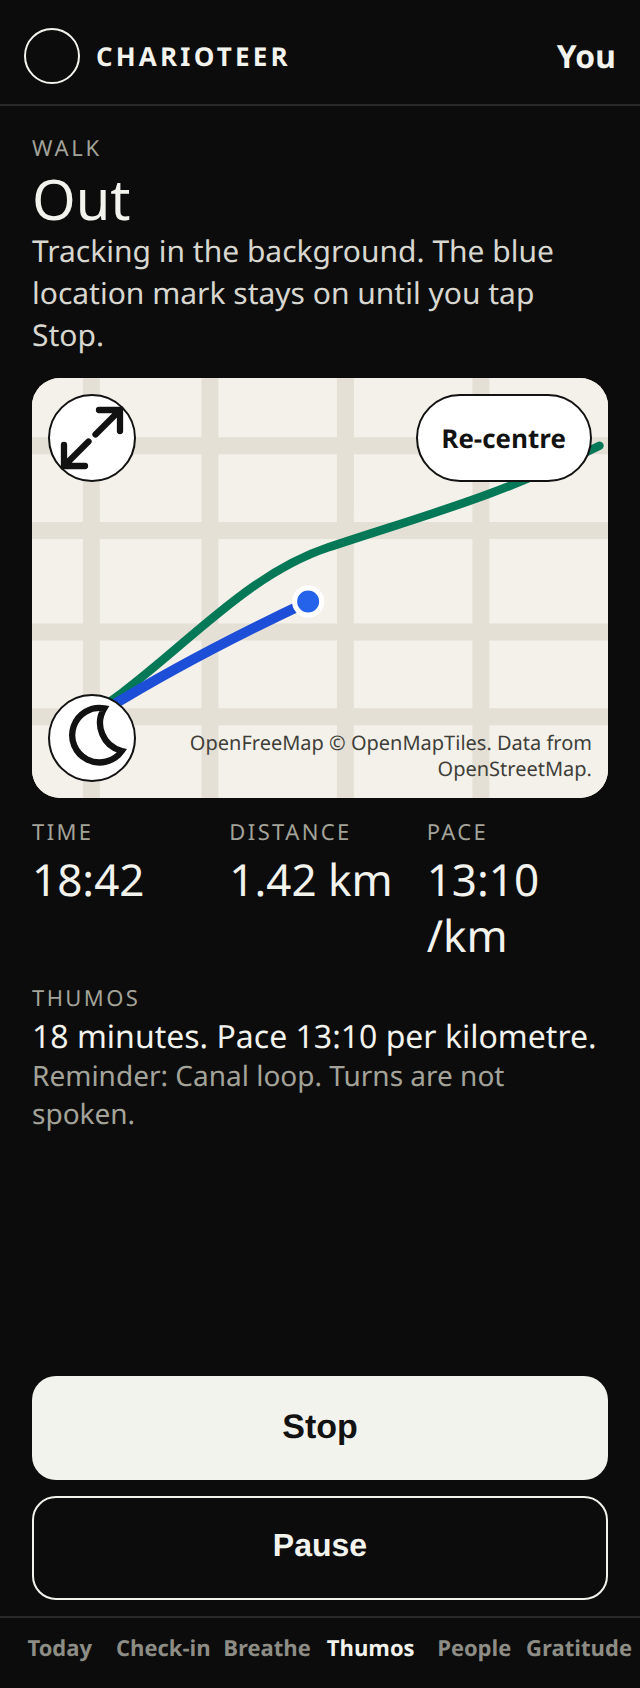
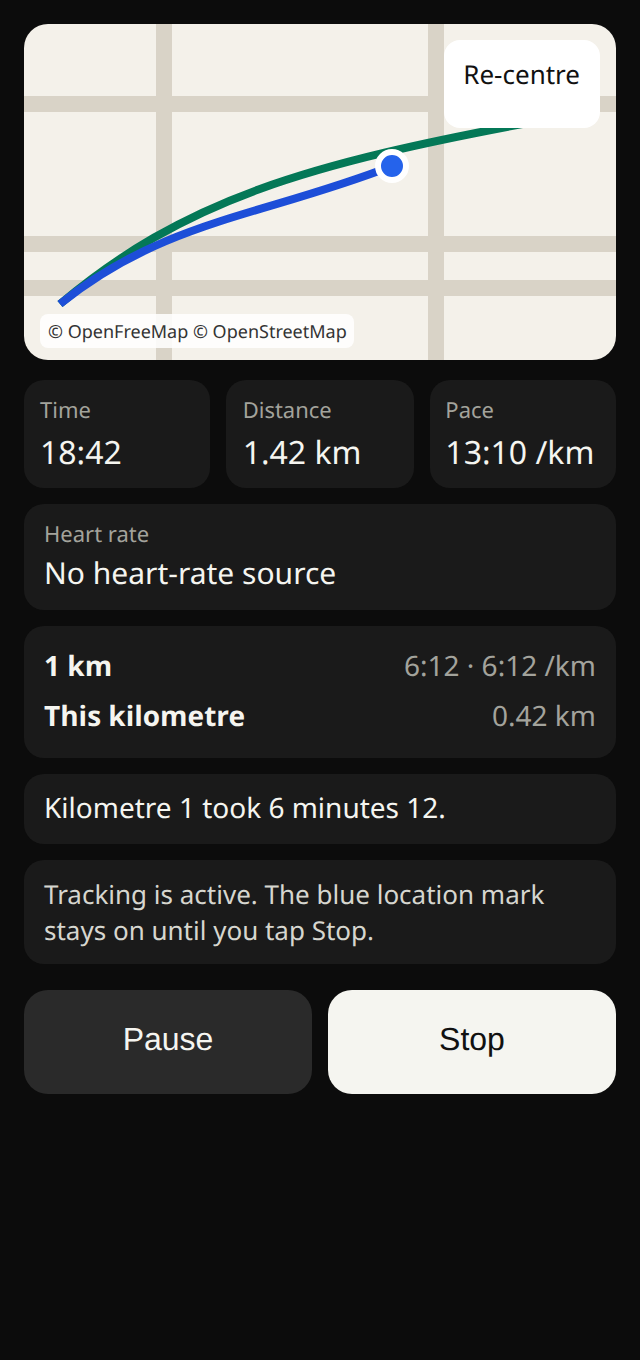
Record live heart rate and split times as a design only.
The sheet recommends reading Apple Health during an outing, hiding the rate when there is no recent sample, and keeping split times without a path. No permission string is changed.

diff --git a/docs/privacy.html b/docs/privacy.html
@@ -57,6 +57,7 @@
   <h2>Activity tracking</h2>
   <p>This section is a proposal. It is not what the app does today. The sentence in the Location section is the one on the device. It has not been approved into the app.</p>
   <p>If it is built, Charioteer would use your location while you are on a walk, run, or cycle you start, to track distance and give you spoken updates, including when the screen is locked or you are using another app. You would tap Start before measuring begins. An explanation in the app would come before the system permission. The permission would stay while using the app. Always location would not be added. iOS would show a blue location mark while measuring is on. Measuring would stop when you tap Stop, when you discard the outing, when the app is closed, and after a time limit. The route of that outing would stay in memory on your phone for the outing only. It would be cleared when you stop or discard it. If the app is closed mid-outing, the route is lost. It would not be sent anywhere, including to the account, the route service, the coach, or a model. It would not be written to a log. It would not be combined with sobriety logs or included in a data export. A finished activity you choose to keep would still store the distance, time, and pace on this phone, not the path. Spoken lines would use the phone's voice and would not record. Route finding would stay separate. A route you ask for would still send only the start and the destination.</p>
+  <p>A further proposal, also not built, would show split times from that distance, in kilometres or miles, and may keep those times in the on-phone summary with the average pace. The summary would still have no path. A heart rate would be shown only when Apple Health already has a recent one. The iPhone would not estimate one. The number would stay on the phone and would not be sent.</p>
   <p>Walk this off (the craving walk) is parked and is not shown. It is not a live feature.</p>
   <p>Route finding stays off until you turn it on. Not now leaves the rest of Outside is Good working. The choice stays on this phone. When it is on, the start point and the destination are sent to OpenRouteService, run by HeiGIT and built on OpenStreetMap data, to make the route. A route sends the coordinates and the travel type only. It does not send your name or account number. HeiGIT sees our server's address, not your phone's. A place search sends the words you type. HeiGIT's transparency statement (https://account.heigit.org/info/transparency-statement) says the full request and response, the IP address, and the API key are kept for 7 days to look for abuse, then deleted. For a route, coordinates rounded to about 1 km, and the request metadata, are kept with no end date. This is done on servers in the EU. The statement is voluntary and not a binding promise. A place search is geocoding. The same statement says the typed place is not kept past those 7 days. Nothing is shared with other people. The map credits OpenStreetMap contributors. Turning this on is not a request to accept OpenStreetMap terms.</p>
   <p>The map opens light, on the OpenFreeMap Liberty style. You can switch that map to dark. The choice stays on this phone. Both styles come from tiles.openfreemap.org. A full screen map is the same map, larger. It does not add a permission or another host.</p>

diff --git a/docs/start-activity-decisions.md b/docs/start-activity-decisions.md
@@ -6,6 +6,8 @@ On 26 October 2026 at 07:42 GMT Ben changed the scope. Tracking must keep runnin
 
 Later the same day the Security and Compliance Bot sent an advisory on that plan. The background section below records it as recommendations. Ben decides. Nothing in the advisory is built. Where the advisory is tighter than the 07:42 draft, the advisory is the recommendation.
 
+On 26 October 2026 at 08:09 GMT Ben asked for a live heart rate and for split times. That is also design only. It is the section **Heart rate and split times**. No permission string was changed for it.
+
 The decision is **Background tracking and spoken updates over music**. The pictures in that section are layout proofs. They are not screens in the app.
 
 Outside is Good has three buttons: **Start a walk**, **Start a run**, and **Start a cycle**. They sit on the existing card, under Find a route and above Open the map. The button opens the setup screen with that activity already chosen. The person can still switch. Walk this off stays hidden.
@@ -93,7 +95,7 @@ A buzz uses the haptic the app already uses when something is saved. No permissi
 
 **Recommendation: a short list of lines stored in the app. The phone fills in the time and the pace. Nothing leaves the phone.**
 
-A line is calm and short. It does not give medical advice, a heart-rate claim, or a calorie. It does not say "you should". If the pace is not ready yet, the line talks about the time only. The same list can praise a walk, a run, and a cycle without pretending to be a coach who knows the person.
+A line is calm and short. It does not give medical advice, a heart-rate claim, or a calorie. It does not say "you should". If the pace is not ready yet, the line talks about the time only. The same list can praise a walk, a run, and a cycle without pretending to be a coach who knows the person. Version 1 keeps that. The later heart-rate section may state a number that Apple Health already has. It still does not interpret the number.
 
 **A live model (Thumos through xAI) is later, and only if you explicitly opt in.** Today `XAI_PERSONAL_DATA_ENABLED=false` is the switch that keeps personal data from being sent for coaching. An update that sent pace, time, or place would be personal data. Place should not be sent even if you later opt in. Pace and time would be the most we would send, and only after a separate yes on that screen, and only while that switch allows it. The first version does not call Thumos, the model, or any server for these lines.
 
@@ -119,7 +121,7 @@ A path is a trail of where they were. The first version does not store one, even
 
 **Not a cloud table in the first version.** A table of outings would be location-related even without the path, because a distance and a time still say that someone went out. It would need a privacy-note update, a line in the data download (`export_my_data`), and the same delete as the rest of the account. Saved routes already sit on the account, and that migration does not add them to the download. A new activity table must not copy that gap. If you later want the summary to follow the account, store the summary only, still with no path, and add it to the download and to delete before it is switched on.
 
-**Apple Health.** The app can already read workouts. The sentence that covers writing says it writes food and water, and that it does not write workouts. A Save to Apple Health button would make that sentence false. The button is on the drawing so you can see it. It is not in the first build. Building it needs the new sentence at the end of this note, and your OK. What it would write, after that: the type (walk, run, or cycle), the start, the end, and the distance. It would not write the path, a heart rate, steps, or a calorie guess. We do not have a heart rate from this screen, and a guessed calorie reads like advice.
+**Apple Health.** The app can already read workouts. The sentence that covers writing says it writes food and water, and that it does not write workouts. A Save to Apple Health button would make that sentence false. The button is on the drawing so you can see it. It is not in the first build. Building it needs the new sentence at the end of this note, and your OK. What it would write, after that: the type (walk, run, or cycle), the start, the end, and the distance. It would not write the path, a heart rate, steps, or a calorie guess. Version 1 does not show a heart rate. A later read, if you approve it, only displays a rate Apple Health already has. It still does not write one. A guessed calorie reads like advice.
 
 **Gratitude.** The tick uses the words already in the app: "Also save to my Gratitude diary". It is off. If they tick it, the diary gets the note they typed, the same private diary as any other line. That note does live on the account, like the rest of the diary. It does not include the path. An empty note does not create a diary line.
 
@@ -195,9 +197,9 @@ While the app is open, the live screen still shows the map. It is the same OpenF
 
 When the app is not in front, they do not see this screen. iOS shows a blue location mark so they can see measuring is on. When they come back, the same screen is here, the time has moved, and it says tracking is in the background, with Stop.
 
-![Proposed live screen, 390 wide. Layout proof. Stop ends the outing.](start-activity/live-proposed-390.png)
+![Proposed live screen, 390 wide. Layout proof. The map stays visible. Heart rate has no source. One split is done. Stop ends the outing.](start-activity/live-proposed-390.png)
 
-![Proposed live screen, 320 wide.](start-activity/live-proposed-320.png)
+![Proposed live screen, 320 wide. The same layout.](start-activity/live-proposed-320.png)
 
 ![Tracking in the background, 390 wide. The clock has kept going. Stop is on the screen.](start-activity/tracking-background-390.png)
 
@@ -346,6 +348,64 @@ This is the list to run when the feature is built. It is not built now.
 - Discard and Stop both clear the in-memory path.
 - The native task does not start significant-change monitoring or region monitoring.
 
+## Heart rate and split times
+
+Ben, 26 October 2026, 08:09 GMT. This section is a proposal. It is not built. No purpose string and no Info.plist key has been changed. You decide. Build 73 stays first.
+
+### Splits
+
+The distance is the same filtered GPS distance the outing already uses. A fix that is too coarse, or too fast for the activity, adds nothing, so it does not finish a split either.
+
+The unit is the one already stored on this phone for workout routes, under `charioteer.distanceUnit`. The workout screen calls the choices Kilometres and Miles. Kilometres is the default. A split is one kilometre, or one mile if they have chosen miles. No new permission.
+
+On the live screen, under the time, distance, and pace, the finished splits are listed, and the kilometre or mile still in progress is shown under them. A finished row is the number, the time, and the pace, for example "1 km · 6:12 · 6:12 /km". The one in progress shows how far that kilometre has got. It is not a finished split until the full kilometre or mile is done. Under about 50 metres the pace stays a dash, as it does today.
+
+The path stays in memory only, as the security advisory already says. It is cleared on Stop and on discard, and it is lost if the app is killed. A split row has no coordinates. It is the index, the time, and the pace.
+
+If you approve it, the on-phone summary may keep the average pace and those split times, together with the activity, the date, the distance, and the time. Still no path. That write happens only when they finish and choose to keep the summary. A kill before that loses the splits with the path. The splits are not sent to Supabase, to the route service, or to xAI. They are not added to the data export. They are not joined to sobriety logs.
+
+Thumos can mention the latest finished split from the list on the phone. "Kilometre 1 took 6 minutes 12." If they use miles, the line says mile. Nothing is sent.
+
+![Proposed summary, 390 wide. Layout proof. Split times, no path.](start-activity/finish-splits-390.png)
+
+![Proposed summary, 320 wide.](start-activity/finish-splits-320.png)
+
+The earlier finish pictures in this note are the summary in the app today. They do not have splits.
+
+### Where a heart rate can come from
+
+The iPhone cannot measure heart rate for this outing. Do not estimate one from pace, and do not invent one. Do not use the camera. If there is no recent reading, the tile says "No heart-rate source" and Thumos does not mention a heart rate. The proofs above are that empty state, with the map still visible.
+
+Three sources. Only the first is recommended.
+
+**1. Apple Watch, read from Apple Health. Recommended for this version.**
+
+While a workout is running, the Watch writes heart-rate samples into Apple Health. Charioteer already asks to read heart rate. The read list already includes `HKQuantityTypeIdentifierHeartRate`. The share sentence already says the app reads heart rate. There is no new Health type and no new permission key. People who have already allowed heart rate are not asked again, because the read list does not change.
+
+A companion Watch app is not required. The Watch's own Workout app is enough, if they start a workout on the Watch. Charioteer does not start that workout. It has no Watch app. Without a workout running on the Watch, the Watch records heart rate only now and then. That is not a rate for this screen. The tile stays on "No heart-rate source".
+
+When this is built, and only while the outing is running, the phone would subscribe to heart-rate changes and turn on Health background delivery at the immediate frequency. The Health library already in the app can do both (`subscribeToChanges` and `enableBackgroundDelivery`). When a change arrives, an anchored query (`queryQuantitySamplesWithAnchor`) reads samples since the last anchor. The same query the workout screen uses today is a one-off read of a finished route. The outing does not use that path, and it does not read a workout route. The subscription and the background delivery stop on Stop, on discard, on termination, and at the time limit. They are not left on for the rest of the day. Health background delivery does not need a `UIBackgroundModes` entry.
+
+What "live" honestly means. Apple does not promise every beat. Immediate is a hint. A sample is often a few seconds to about a minute behind the Watch. With the phone locked, or in Low Power Mode, it can be slower, batched, or deferred. The tile shows the latest sample and how old it is, for example "142 bpm" and "20s ago". If the newest sample is older than about a minute, the tile returns to "No heart-rate source" and the lines stop mentioning a rate. Do not draw a trace.
+
+The share sentence already allows the read. It does not say the rate is shown during a walk they start. The recommended sentence in the wording list adds that, on the same key. It is not written into the app until you approve it.
+
+**2. A Bluetooth heart-rate strap, or a watch that broadcasts the standard heart-rate service. Not this version.**
+
+This needs a new purpose string, `NSBluetoothAlwaysUsageDescription`. Keeping the reading while the phone is locked would also need `UIBackgroundModes` entry `bluetooth-central`. Neither key is in the app. Both are new wording and a new review. Guideline 2.5.4 applies to that background mode, and 5.1.1 applies to the new sentence. They would also have to choose a strap and connect it. Do not add this in this version. The sentence is in the wording list only so it is not mistaken for something already approved.
+
+**3. No sensor.** This is what the screen does when option 1 has nothing newer than about a minute. The tile says "No heart-rate source". The lines do not mention a heart rate.
+
+Recommendation. Option 1, and option 3 whenever there is no recent sample. No Watch app. No Bluetooth. No estimate. The number can be behind the Watch. Say that on the screen.
+
+### Safeguards
+
+No medical claim. No heart-rate zones. No alarm, and no line that tells them to slow down or stop because of a number. At most one calm line if the rate is very high. The number to confirm is 180 bpm or above, once in that outing: "Heart rate is 180. This is not medical advice." Then no further heart-rate warning. The Good to know lines stay, including the GP, NHS 111, and 999 line. "Not medical advice" stays.
+
+An ordinary heart-rate line, if they left spoken updates on, rides the interval they already chose. It does not speak on every sample. "Heart rate 142." It states the number. It does not say what the number means.
+
+The number stays on the phone. It is not sent to xAI or to Supabase in this version. It is not written to a log. The summary does not keep a trace or a list of readings. Recommendation: the summary keeps no heart rate at all. A single average would be a later decision. If Thumos lines later use xAI, the input is aggregate numbers only, such as average pace and, only if you allow it, an average heart rate, after an explicit opt-in. Never a trace, and never coordinates. `XAI_PERSONAL_DATA_ENABLED` stays false. That later use is not this version.
+
 ## Wording that needs your OK
 
 None of this is in the app. Nothing below is written into Info.plist until you approve it.
@@ -382,6 +442,31 @@ Do not add `NSLocationAlwaysAndWhenInUseUsageDescription`. Do not add `NSLocatio
 
 The map screens keep their own page line. That line is about the map, not about an outing.
 
+**Heart rate and splits, for the same later build.** Not in the app. Splits need no new permission. Heart rate uses the Health read the app already has. The sentence below is a change to that existing share sentence, not a new key.
+
+Today, and still the sentence in the app: "Charioteer reads steps, sleep, heart rate, resting heart rate, heart rate variability, cardio fitness, walking heart rate, heart rate recovery, workouts (type, duration, distance, energy, and average heart rate), and walking, cycling and swimming distance, plus weight, height, body fat, lean body mass, active energy, and exercise minutes. Readings stay on your iPhone. A workout route is read only when you open that route, and the path stays on this iPhone. A short summary is sent to write your plan only if you turn the coach on. It is not used for ads. Other people cannot see this."
+
+Proposed `NSHealthShareUsageDescription`: "Charioteer reads steps, sleep, heart rate, resting heart rate, heart rate variability, cardio fitness, walking heart rate, heart rate recovery, workouts (type, duration, distance, energy, and average heart rate), and walking, cycling and swimming distance, plus weight, height, body fat, lean body mass, active energy, and exercise minutes. Readings stay on your iPhone. During a walk, run, or cycle you start, the latest heart rate from Apple Health can be shown on that screen, including while the phone is locked. The iPhone does not measure it. That heart rate stays on this iPhone and is not sent. A workout route is read only when you open that route, and the path stays on this iPhone. A short summary is sent to write your plan only if you turn the coach on. It is not used for ads. Other people cannot see this."
+
+Lines on the screen. Not purpose strings.
+
+- The empty tile: "No heart-rate source"
+- Under that tile when it is empty: "Start a workout on your Apple Watch to show heart rate. The iPhone does not measure it."
+- A recent sample: "142 bpm" and "20s ago"
+- A finished split, kilometres: "1 km · 6:12 · 6:12 /km"
+- The split still going: "This kilometre · 0.42 km"
+- The same split in miles, if that is their unit: "1 mi · 6:12 · 6:12 /mi" and "This mile · 0.42 mi"
+- A spoken or on-screen split line: "Kilometre 1 took 6 minutes 12." Miles: "Mile 1 took 6 minutes 12."
+- A spoken or on-screen heart-rate line, only when a sample is recent, and only on the interval they chose: "Heart rate 142."
+- Once, if the rate is 180 or above. Confirm 180 before this is used: "Heart rate is 180. This is not medical advice."
+- In Good to know: "Heart rate, if it shows, comes from Apple Health and can be a little behind. It is not medical advice."
+
+**Bluetooth heart rate. Not recommended, and not added unless you later choose that source.** New key. New review.
+
+`NSBluetoothAlwaysUsageDescription`: "Charioteer reads heart rate from a Bluetooth strap or watch while a walk, run, or cycle is running, including when the phone is locked. The reading stays on this phone. It is not sent."
+
+`UIBackgroundModes` entry `bluetooth-central` would go with that sentence. Neither is in the app. Do not add them for this version.
+
 **Apple Health write, only if you want that button built.** Not the first version.
 
 Today: "Charioteer writes the food and water you log to Apple Health: dietary energy, protein, carbohydrate, sugar, fibre, fat, sodium and water. It does not write steps, sleep, heart rate, workouts, or weight."
@@ -394,6 +479,7 @@ Proposed: "Charioteer writes the food and water you log to Apple Health: dietary
 - `NSLocationAlwaysUsageDescription`.
 - A new motion sentence. The current one stays, because the app does not read motion.
 - A new microphone sentence. Speaking is not recording.
+- `NSBluetoothAlwaysUsageDescription`, and `UIBackgroundModes` `bluetooth-central`, unless you later choose a Bluetooth strap. Not this version.
 
 `UIBackgroundModes` `location` and `audio` are the keys in section (c). They are not in the binary. They wait for the wording above.
 
@@ -407,6 +493,8 @@ Writing a workout while the Health sentence says we do not write workouts would 
 
 A step counter while the motion sentence says we do not use motion would be the same kind of rejection. The step counter is not in the plan.
 
+A Bluetooth heart-rate strap would be a new permission and a new background mode. It is not in this version. Showing a heart rate the iPhone invented would make the Health sentence false. The tile stays on "No heart-rate source" when Apple Health has nothing recent.
+
 ## What this note does not do
 
-Version 1, including the live map, is in the app on this branch. It still pauses when the phone locks. The background section, including the Security and Compliance Bot recommendations, is a decision only. No purpose string was changed. No Info.plist key was added. No new host. Build number 72. Nothing shipped. The outdoor-route function is still not deployed. Build 73 stays on its own branch.
+Version 1, including the live map, is in the app on this branch. It still pauses when the phone locks. The background section, the Security and Compliance Bot recommendations, and the heart-rate and split section are decisions only. No purpose string was changed. No Info.plist key was added. No new host. Build number 72. Nothing shipped. The outdoor-route function is still not deployed. Build 73 stays on its own branch.

diff --git a/docs/dpia-location.md b/docs/dpia-location.md
@@ -18,10 +18,10 @@ Not built. Not in the binary. Ben has not approved the build. This is the activi
 
 - Purpose. Measure distance and pace, and give spoken updates, during a walk, run, or cycle the person started, including while the screen is locked or another app is in front.
 - Lawful basis to confirm. The person starts it. iOS while-using permission is granted. An in-app explanation is shown before the system prompt. The working basis is that request. This note does not confirm the UK GDPR article.
-- Data. Location fixes and the path, in memory on the phone, only while the outing is running, plus the distance, time, and pace derived from them. The path is cleared on Stop and on discard. If the process dies, the path is lost.
+- Data. Location fixes and the path, in memory on the phone, only while the outing is running, plus the distance, time, and pace derived from them. Split times are the index, the duration, and the pace for each kilometre or mile. They have no coordinates. The path is cleared on Stop and on discard. If the process dies, the path and the unfinished splits are lost. A heart rate, if shown, is a sample Apple Health already holds from a Watch workout. It is not estimated. It is not a trace stored on the account. There is no Bluetooth source in this proposal.
 - Retention. None server-side. Nothing is written to Supabase. On the phone the path is not kept after Stop, discard, or process death. A finished summary, if they keep it, is the activity, the date, the distance, the time, and the average pace, with no path. That summary is the local store already described. It is not this path.
 - Recipients. None for the path. It is not sent to HeiGIT, OpenFreeMap, the coach, xAI, analytics, or other people. Route finding is a separate activity. It must not reuse this path. Its request is the start and the destination only.
-- No AI in v1. xAI does not receive the route. If a later version writes Thumos lines with xAI, the input is aggregate stats only, distance, time, and pace, and never coordinates. That later use is not approved. `XAI_PERSONAL_DATA_ENABLED` stays false.
+- No AI in v1. xAI does not receive the route or the heart rate. If a later version writes Thumos lines with xAI, the input is aggregate stats only, distance, time, and pace, and an average heart rate only after an explicit opt-in. Never a trace, and never coordinates. That later use is not approved. `XAI_PERSONAL_DATA_ENABLED` stays false.
 - Risks. Someone with a lost or shared phone can infer where the person is if the outing screen is open. The blue location mark tells anyone looking at the phone that location is on. Live GPS uses battery. Mitigations in the proposal: updates start only on Start, stop on Stop, on termination, and after the time limit, the path is memory only, there is no server copy, there is no Always permission, and significant-change and region monitoring are not used, so a swipe-away does not relaunch the app.
 - Rights. There is nothing server-side to export or erase, because the path is not sent. The path must not be added to `export_my_data`. It must not be combined with sobriety logs (`profiles.sobriety_started_at`, check-ins, or gratitude). A local summary without a path can be deleted on the phone.
 - Privacy notice. A short Activity tracking section is in the privacy note, marked as this proposal and not as what the app does today.

diff --git a/docs/store-privacy-labels.md b/docs/store-privacy-labels.md
@@ -14,7 +14,7 @@ Add one data type for this feature:
 
 The purpose string on the device is while-in-use only: `NSLocationWhenInUseUsageDescription`. Do not add `NSLocationAlwaysAndWhenInUseUsageDescription` or `NSLocationAlwaysUsageDescription`. A walk, run, or cycle uses that same while-in-use location, only while the activity screen is open. The summary stays on the phone. It is not a server collection. The binary has no background location mode and no audio background mode. Spoken lines are on-device text to speech and do not record.
 
-A proposal dated 26 October 2026, tightened the same day by the Security and Compliance Bot, would, after the wording is approved and not before, add `UIBackgroundModes` entries `location` and `audio`, and replace the while-using sentence. It would still not add the Always strings. It would not use significant-change or region monitoring. The path of an outing would stay in memory until Stop or discard, would be lost if the app is killed, and would not be sent, logged, or added to the data export or to sobriety logs. Check the privacy nutrition label against the final binary. Do not fill the store form as if that proposal is already in the binary. If the final binary matches the proposal, Precise Location stays linked to the user, used for app functionality, and not used for tracking.
+A proposal dated 26 October 2026, tightened the same day by the Security and Compliance Bot, would, after the wording is approved and not before, add `UIBackgroundModes` entries `location` and `audio`, and replace the while-using sentence. It would still not add the Always strings. It would not use significant-change or region monitoring. The path of an outing would stay in memory until Stop or discard, would be lost if the app is killed, and would not be sent, logged, or added to the data export or to sobriety logs. Check the privacy nutrition label against the final binary. Do not fill the store form as if that proposal is already in the binary. If the final binary matches that location proposal, Precise Location stays linked to the user, used for app functionality, and not used for tracking. A later proposal would also show split times, and a heart rate already covered by the Health read, on the phone only. It would not add a Bluetooth permission. Do not fill the store form from that later proposal either.
 
 `NSMotionUsageDescription` is present only to satisfy Apple's static check. The sentence is: "Charioteer does not use your motion or fitness data. The map component in the app can reference motion sensors, so Apple requires this note." The app never reads motion or fitness-activity data. Do not add a Fitness or Motion data type. Do not turn on Android motion activity.
 

diff --git a/docs/privacy.md b/docs/privacy.md
@@ -103,6 +103,8 @@ This section is a proposal. It is not what the app does today. The purpose sente
 
 If it is built, Charioteer would use your location while you are on a walk, run, or cycle you start, to track distance and give you spoken updates, including when the screen is locked or you are using another app. You would tap Start before measuring begins. An explanation in the app would come before the system permission. The permission would stay while using the app. Always location would not be added. iOS would show a blue location mark while measuring is on. Measuring would stop when you tap Stop, when you discard the outing, when the app is closed, and after a time limit. The route of that outing would stay in memory on your phone for the outing only. It would be cleared when you stop or discard it. If the app is closed mid-outing, the route is lost. It would not be sent anywhere, including to the account, the route service, the coach, or a model. It would not be written to a log. It would not be combined with sobriety logs or included in a data export. A finished activity you choose to keep would still store the distance, time, and pace on this phone, not the path. Spoken lines would use the phone's voice and would not record. Route finding would stay separate. A route you ask for would still send only the start and the destination. The wording is waiting for approval. It is written up in the Start a walk note.
 
+A further proposal the same day, also not built, would show split times from that distance, in kilometres or miles, and may keep those times in the on-phone summary with the average pace. The summary would still have no path. A heart rate would be shown only when Apple Health already has a recent one, from a workout on Apple Watch. The iPhone would not estimate one. There would be no Bluetooth strap in that proposal. The number would stay on the phone and would not be sent to the account or to a model. If there is no recent reading, none is shown.
+
 Route finding is off until you turn it on. The first time you open Find a route, the app asks. Not now leaves Outside is Good, saved routes, and the map working, and it does not call the route service. You can turn it off again from Profile. The choice is stored on this phone only, with the time and the wording version. It is not a database column. Another phone starts off.
 
 Walk this off (the craving walk) is parked. It is not shown. The screen and the route engine stay in the app behind `SHOW_WALK_THIS_OFF`, which is off. Turning that constant on would show it again. It is not a live feature, and the consent screen and Profile do not offer it.
